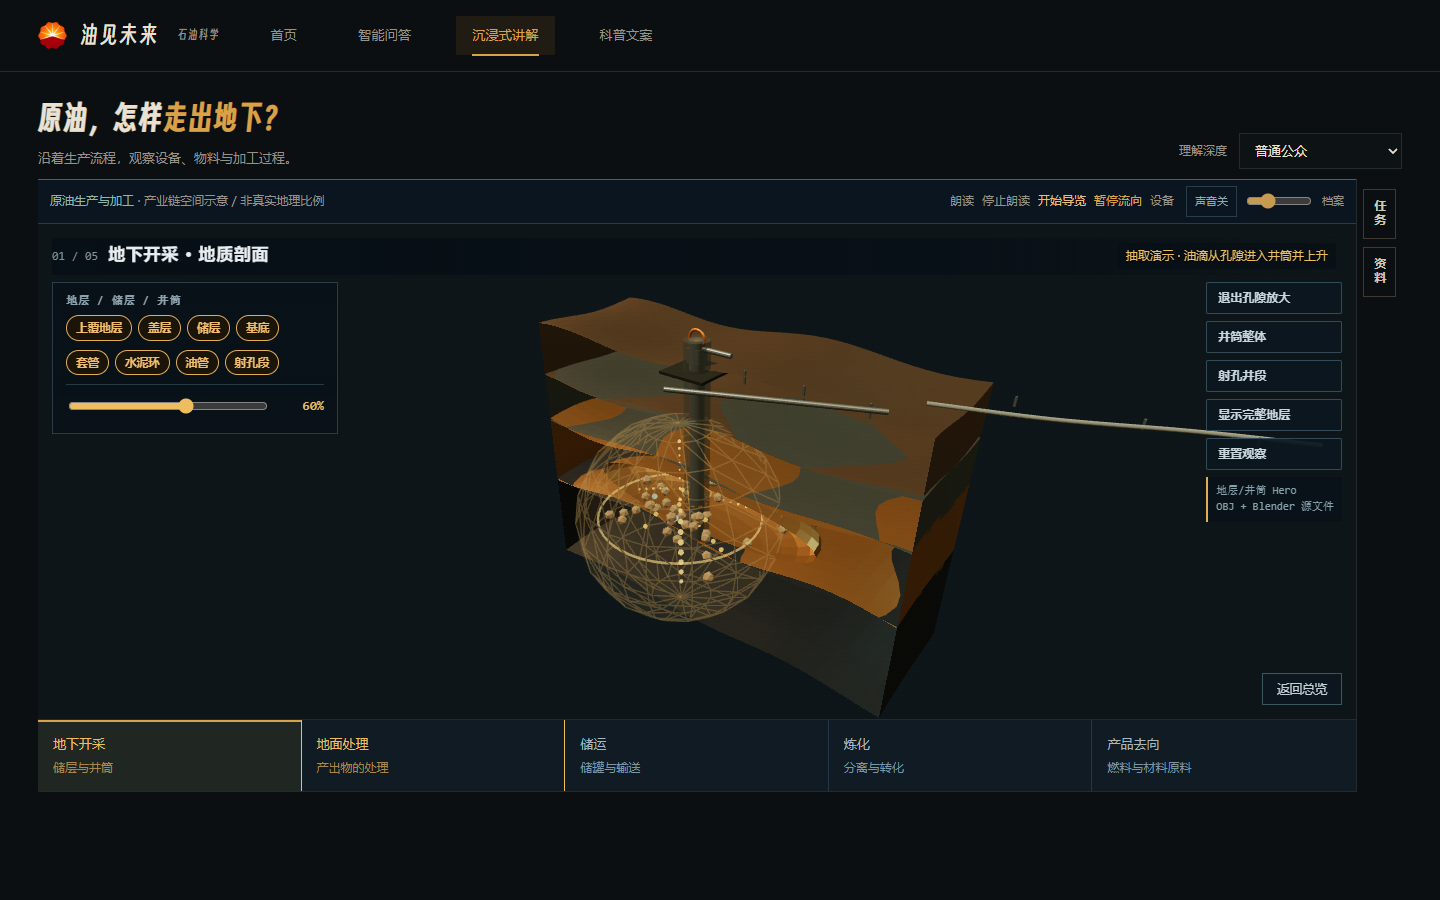
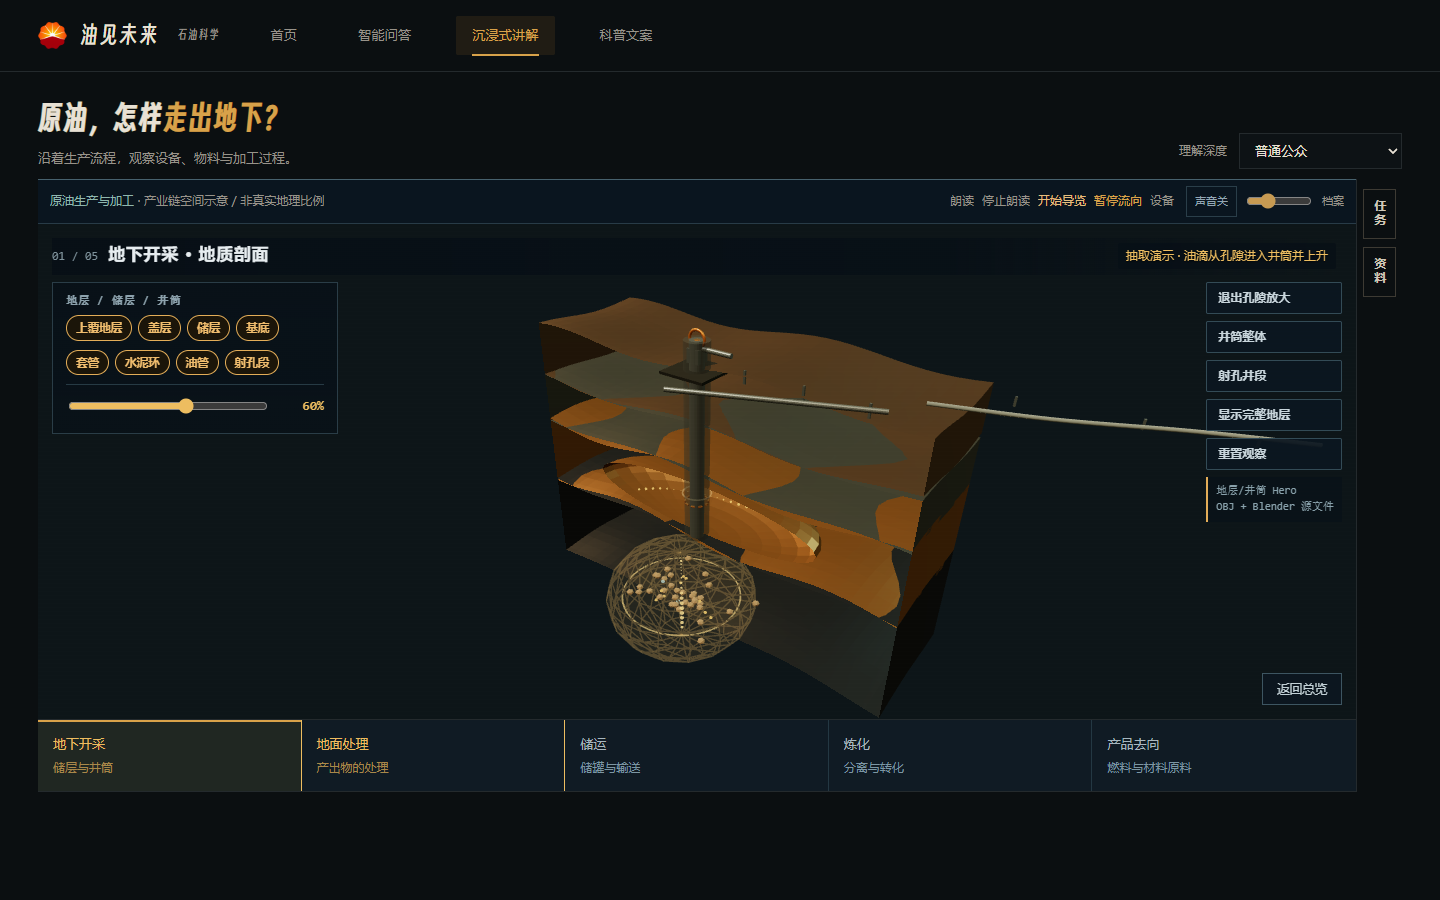
fix: keep pore sphere inside basement layer

Changed region(s): [[0.375, 0.4667, 0.5312, 0.7467]]

diff --git a/web/levels/l1.js b/web/levels/l1.js
@@ -860,7 +860,9 @@
     poreMode = true;
     originalVisibility = Object.assign({}, layerVisibility);
     poreGroup.visible = true;
-    poreGroup.scale.setScalar(1.35);
+    /* 叠加态放到最底层（基底）内，避免孔隙球跨过储层/盖层。 */
+    poreGroup.position.y = -9.9;
+    poreGroup.scale.set(1.05, 0.74, 1.05);
     applyExtractionProgress();
     const btn = ui.querySelector('#l1-pore');
     if (btn) btn.textContent = '退出孔隙放大';
@@ -872,6 +874,7 @@
     if (!assetLoaded || !poreGroup) return;
     poreMode = true;
     clearLayerHighlight();
+    poreGroup.position.y = -5.8;
     poreGroup.scale.setScalar(1);
     originalVisibility = Object.assign({}, layerVisibility);
     LAYERS.forEach(function (l) { if (layerMeshes[l.key]) layerMeshes[l.key].visible = false; });
@@ -893,6 +896,7 @@
   function exitPore() {
     if (!poreMode) return;
     poreMode = false;
+    poreGroup.position.y = -5.8;
     poreGroup.scale.setScalar(1);
     poreGroup.visible = false;
     if (originalVisibility) {
@@ -1176,6 +1180,7 @@
       get selected() { return selectedPart || selectedLayer || null; },
       get clipped() { return clipped; },
       get crossSection() { return { pore: poreMode, overburden: !!(layerMeshes.overburden && layerMeshes.overburden.visible), caprock: !!(layerMeshes.caprock && layerMeshes.caprock.visible), reservoir: !!(layerMeshes.reservoir && layerMeshes.reservoir.visible), basement: !!(layerMeshes.basement && layerMeshes.basement.visible), poreGroup: !!(poreGroup && poreGroup.visible) }; },
+      get poreBounds() { if (!poreGroup) return null; const b = new THREE.Box3().setFromObject(poreGroup); return { minY: b.min.y, maxY: b.max.y }; },
       get viewMode() { return viewMode; },
       get layerState() { return Object.assign({}, layerVisibility); },
       get layerVisible() { var out = {}; Object.keys(layerMeshes).forEach(function (k) { out[k] = !!(layerMeshes[k] && layerMeshes[k].visible); }); return out; },

diff --git a/web/sandbox.html b/web/sandbox.html
@@ -388,7 +388,7 @@ body.journey-tour.journey-paused .lvl-entries{display:none!important}
 .tower-link,.chapter-link{font-size:12px}
 </style>
 <script src="levels/entry.js?v=v42"></script>
-<script src="levels/l1.js?v=v66"></script>
+<script src="levels/l1.js?v=v67"></script>
 <script src="levels/l2.js?v=v58"></script>
 <script src="levels/l3.js?v=v51"></script>
 <script src="levels/l4.js?v=v58"></script>

diff --git a/docs/phase-reports/phase-08-handoff.md b/docs/phase-reports/phase-08-handoff.md
@@ -4,7 +4,7 @@
 
 - 日期：2026-11-23
 - 阶段：08_AI_CONTEXT
-- 状态建议：**REVISE（仅剩继承 P0-SEC-01；P1 已修复；自动孔隙视图与滑块联动后复测 51/0；用户签收待完成）**
+- 状态建议：**REVISE（仅剩继承 P0-SEC-01；P1 已修复；孔隙球收进基底后复测 52/0；用户签收待完成）**
 - 用户签收：**待用户签收**
 - 起始 Commit：`6047a59`（阶段 07 文档完成后的 main）
 - 结束 Commit（真实 SHA）：`30bf4f4`（剖面 + 孔隙叠加 + 滑块联动颗粒；部署后置文档提交）
@@ -57,7 +57,7 @@
 | API Key 不在前端 | **通过** | 前端无 key；只使用 `/api/*`；服务端 env |
 | `docs/API.md` 更新 | **通过** | 新增 Dify 两端点；兼容段保留 |
 | `docs/ai-scene-context.md` | **通过** | 上下文形状、ID 表、样例、白名单、失败码 |
-| 真实浏览器验证 | **通过** | `phase08-verify.cjs` 51/0 |
+| 真实浏览器验证 | **通过** | `phase08-verify.cjs` 52/0 |
 | V23 线上静态检查 | **通过** | scene-context/ai-actions/AI 面板/动作入口加载，无 boot error |
 | 截图证据 | **通过** | 8 张 1440×900（总入口、AI、动作、l1 清理/抽取、写作 handoff） |
 
@@ -296,7 +296,7 @@ phase08-02b-action-suggestion.png
 ## 16. 地下开采清理与抽取动画（2026-11-24 用户追加）
 
 - 移除用户标注的界面：左栏教学长文/状态/压力滑条（`l1-info`、`l1-readout`、`l1-act`），右侧“沿井筒上行/暂停流动”，底部操作条（`.foot`、`#live`）。保留地层/井筒 chip、观察和返回控制。
-- 进入地下开采保持地层剖面，同时叠加孔隙视图（不隐藏地层、不切走镜头）；原压力滑块作为唯一操作入口（无文字说明/操作引导）。滑块越大，井筒上升粒子越快、孔隙底部油/气/水颗粒越少；反向拖动会恢复。滑块 ≥50% 写入 `trace_up_wellbore`（抽取动画）。
+- 进入地下开采保持地层剖面，同时叠加孔隙视图（不隐藏地层、不切走镜头）；孔隙球收在基底范围内，避免跨盖层/储层；原压力滑块作为唯一操作入口（无文字说明/操作引导）。滑块越大，井筒上升粒子越快、孔隙底部油/气/水颗粒越少；反向拖动会恢复。滑块 ≥50% 写入 `trace_up_wellbore`（抽取动画）。
 - M1 文案改为“点击储层 + 拖动压力滑块到 50% 以上”；旧“沿井筒上行”按钮保留为 hidden 程序化兼容钩子，可见操作是原压力滑块。
 - 验证：`phase08-verify` **51/0**（新增自动孔隙、0% 满量、滑块减少颗粒、上升粒子位移断言）；截图 `phase08-00a/00c`。
 - 阶段 08 仍因 P0-SEC-01 为 **REVISE / 待用户签收**，未进入 09。
@@ -320,3 +320,11 @@ phase08-02b-action-suggestion.png
 - 手动点击“孔隙放大”仍保留原隔离放大视图；自动入口不再调用它。
 - 叠加态下滑块动画保留：0% 底部 30 颗粒满量；60% 约 12 颗粒；100% 为 0；反向恢复；井筒/孔隙上升流同步。
 - 验证：阶段 08 **51/0**（新增“剖面+孔隙叠加”断言：上覆地层/储层/孔隙组均可见）；阶段 07 回归 **76/0**。
+
+
+## 19. 孔隙球收进最底层基底（用户 2026-11-24 修正）
+
+- 用户指出孔隙球跨地层，要求放到最底层。
+- 叠加态孔隙组下移到 `y=-9.9`，缩放为 `(1.05, 0.74, 1.05)`；实测包围盒 `y=-12.20…-7.60`，完全落在基底 `y=-12.28…-7.27` 内，不再跨储层、盖层。
+- 手动“孔隙放大”仍恢复原位 `y=-5.8` 和原始比例；退出叠加态也恢复。
+- 验证：阶段 08 **52/0**（新增包围盒不越出基底的断言）；阶段 07 仍 76/0。

diff --git a/CHANGELOG.md b/CHANGELOG.md
@@ -10,7 +10,7 @@
 - 复审修复：设备卡“问 AI”自动展开侧栏；写作 Dify facts 追加带边界的场景记录；`/api/ask action:true` 真实模型动作建议；生产动作块实测。
 - 体验入口合并：页面不再显示“沉浸导览/自由探索/任务关卡”三张模式卡，只保留场景头“开始导览”；自由探索为默认，任务从右栏“任务”进入；旧模式按钮仅作隐藏程序化兼容钩子。
 - 工具栏修正：浏览器“朗读”现在读取并朗读右侧当前讲解（原先没有写入文本，点击后无反应）；移除“更多→声音”重复入口，并合并侧栏“朗读讲解”到顶部朗读，只保留顶部合成环境音/音量控制。
-- 地下开采清理：移除左栏教学长文/状态说明、右栏“沿井筒上行/暂停流动”和底部工具条；恢复原压力滑块（仅保留滑块与百分比，无文字说明/操作引导）和 V3 式抽取动画（储层汇流 + 井筒上升粒子 + 脉动环）。进入关卡保持地层剖面并叠加孔隙视图；拖动滑块时井筒粒子上升、底部颗粒同步减少，反向拖动恢复；M1 由滑块 ≥50% 判定。
+- 地下开采清理：移除左栏教学长文/状态说明、右栏“沿井筒上行/暂停流动”和底部工具条；恢复原压力滑块（仅保留滑块与百分比，无文字说明/操作引导）和 V3 式抽取动画（储层汇流 + 井筒上升粒子 + 脉动环）。进入关卡保持地层剖面并叠加孔隙视图；孔隙球收在最底层基底内，不再跨盖层/储层；拖动滑块时井筒粒子上升、底部颗粒同步减少，反向拖动恢复；M1 由滑块 ≥50% 判定。
 - 结论：**技术/交互复审修复完成（36/0）；仍因继承的旧 Dify key 有效而保持 REVISE；用户签收待完成**。
 
 ## 阶段 07 — 2026-11-23 · 系统整合（导览/任务/音频/档案）

diff --git a/docs/phase-reports/evidence/phase-08/README.md b/docs/phase-reports/evidence/phase-08/README.md
@@ -1,8 +1,8 @@
 # Phase 08 证据
 
-- `phase08-verify.json`：51 项断言，真实 Chrome CDP、1440×900、本地 `:8796`。
+- `phase08-verify.json`：52 项断言，真实 Chrome CDP、1440×900、本地 `:8796`。
 - `phase08-00-merged-ui.png`：三张模式卡合并后的单入口页面（无模式行）。
-- `phase08-00a-l1-full.png`：进入地下开采的地层剖面 + 孔隙叠加效果，滑块 0% 时底部颗粒满量。
+- `phase08-00a-l1-full.png`：进入地下开采的地层剖面 + 孔隙叠加效果；孔隙球位于最底层基底内，滑块 0% 时底部颗粒满量。
 - `phase08-00b-l1-extraction.png`：地下开采清理后，移除标注/底栏并运行抽取动画的截图。
 - `phase08-00c-l1-slider-mid.png`：滑块 60% 时井筒上升流与底部颗粒减少。
 - `phase08-01-context-separator.png`：进入三相分离关卡后的上下文。
